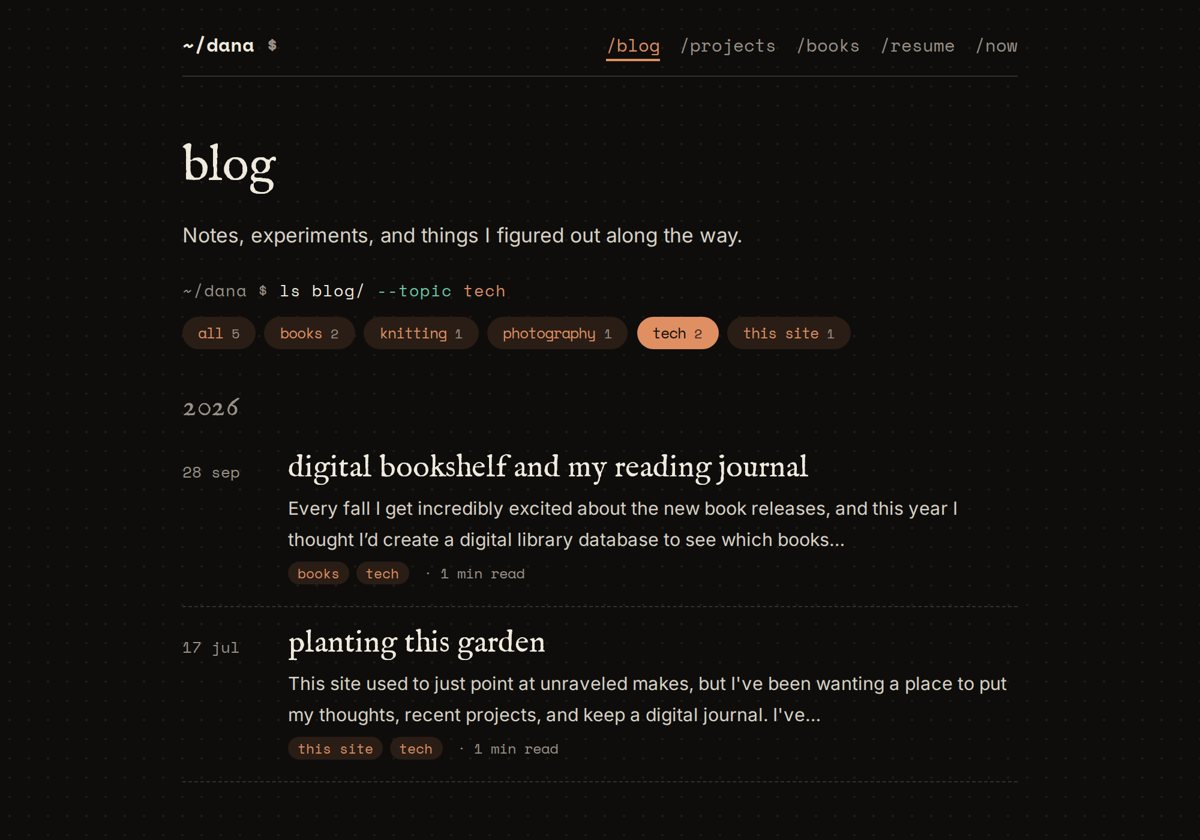
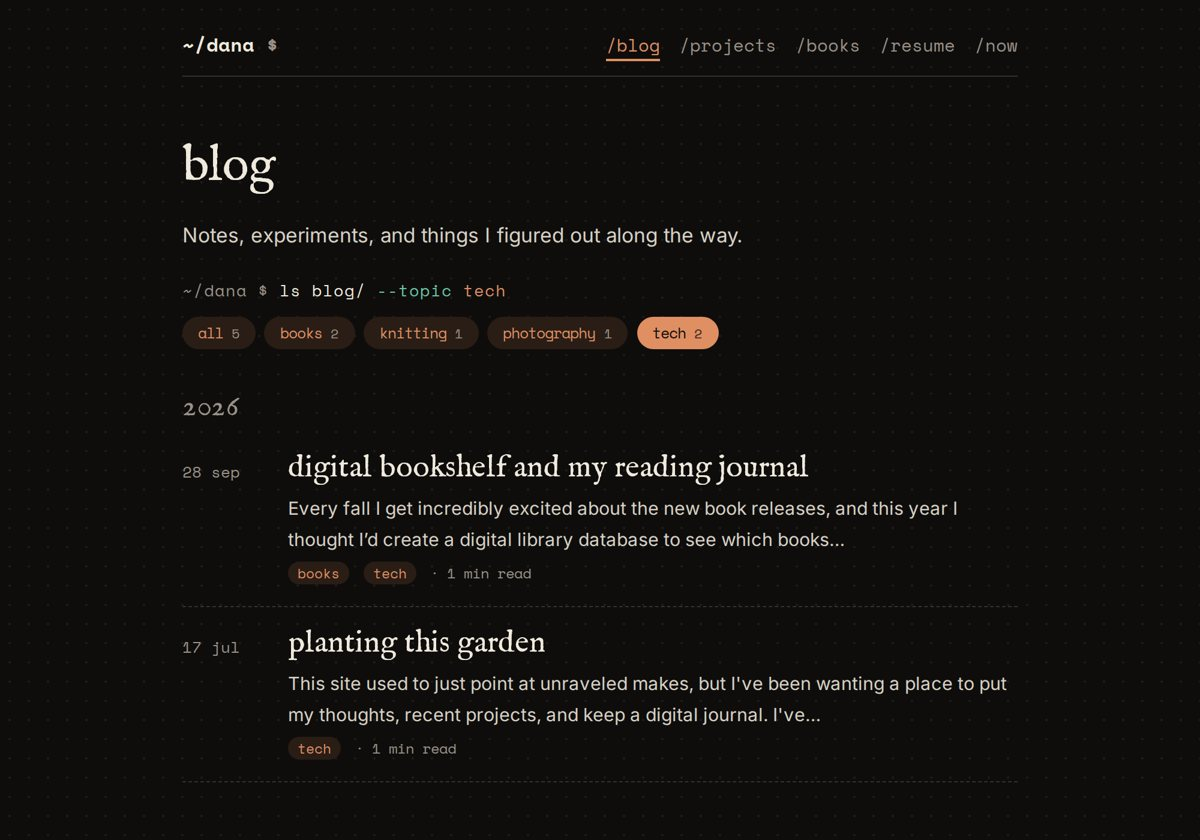
Blog topic filter (PRD part A); PRD v3 with drafts and decisions
- topics: lists in front matter (topic: still works); "this site" retired, planting this garden is tech,
  the audiobooks post is books + tech
- /blog: topic pills with counts under a ls blog/ --topic line, one topic at a time, ?tag= in the URL,
  year headings hide when empty; post-page topic pills link to the filtered list
- PRD: shared /books sign-in, publish goes live directly, drafts kept privately in the API's database

Claude-Session: https://claude.ai/code/session_012Pd5sMaAUWzkLare3ateY7

diff --git a/src/js/blog.js b/src/js/blog.js
@@ -1,0 +1,54 @@
+// /blog topic filter (docs/prd-blog-tags.md). One topic at a time; "all" by default. The choice lives in the
+// URL (?tag=books, spaces as "-") so a filtered list can be shared. Without this script every post is listed.
+(function () {
+  var nav = document.querySelector(".tag-filter");
+  if (!nav) return;
+  nav.hidden = false;
+  var btns = Array.prototype.slice.call(nav.querySelectorAll(".tf-tag"));
+  var arg = nav.querySelector("[data-arg]"), live = nav.querySelector("[data-tf-live]");
+  var items = Array.prototype.slice.call(document.querySelectorAll(".post-cards li"));
+  var known = btns.map(function (b) { return b.getAttribute("data-tag"); });
+  var current = "", typing = null;
+
+  function word(t) { return !t ? "*" : t.indexOf(" ") > -1 ? '"' + t + '"' : t; }
+  function retype(text) { // the --topic word types itself, like the site's other typed text
+    clearTimeout(typing);
+    var reduce = window.matchMedia && matchMedia("(prefers-reduced-motion: reduce)").matches;
+    if (reduce) { arg.textContent = text; return; }
+    var i = 0; arg.textContent = "";
+    (function step() { if (i <= text.length) { arg.textContent = text.slice(0, i++); typing = setTimeout(step, 35 + Math.random() * 30); } })();
+  }
+  function set(t, fromUser) {
+    if (known.indexOf(t) < 0) t = "";
+    if (fromUser && t === current) t = "";   // clicking the selected topic again shows everything
+    current = t;
+    btns.forEach(function (b) { b.setAttribute("aria-pressed", String(b.getAttribute("data-tag") === t)); });
+    var shown = 0;
+    items.forEach(function (li) {
+      var hit = !t || (li.getAttribute("data-topics") || "").split("|").indexOf(t) > -1;
+      if (hit && li.hidden) { li.classList.remove("tf-in"); void li.offsetWidth; li.classList.add("tf-in"); }
+      li.hidden = !hit; if (hit) shown++;
+    });
+    Array.prototype.forEach.call(document.querySelectorAll(".year-head"), function (h) {
+      var ol = h.nextElementSibling, any = ol && Array.prototype.some.call(ol.children, function (li) { return !li.hidden; });
+      h.hidden = !any; if (ol) ol.hidden = !any;
+    });
+    if (fromUser) {
+      retype(word(t));
+      live.textContent = t ? shown + (shown === 1 ? " note" : " notes") + " about " + t : "all " + shown + " notes";
+      if (window.gardenThock) try { window.gardenThock(false, true); } catch (e) {}
+      try { history.replaceState(null, "", t ? "?tag=" + t.replace(/\s+/g, "-") : location.pathname); } catch (e) {}
+    } else arg.textContent = word(t);
+  }
+  btns.forEach(function (b) { b.addEventListener("click", function () { set(b.getAttribute("data-tag"), true); }); });
+  // the topic pills on each post filter in place instead of reloading
+  Array.prototype.forEach.call(document.querySelectorAll(".post-meta a.topic"), function (a) {
+    a.addEventListener("click", function (e) {
+      e.preventDefault();
+      set(a.getAttribute("data-tag"), true);
+      nav.scrollIntoView({ block: "nearest" });
+    });
+  });
+  var q = new URLSearchParams(location.search).get("tag");
+  set(q ? q.replace(/-/g, " ").toLowerCase() : "", false);
+})();

diff --git a/src/css/garden.css b/src/css/garden.css
@@ -462,3 +462,24 @@ html.js body.typed-done .ls-long { opacity: 1; }
   .fav-covers a, .fav-covers span { left: calc(var(--i) * (15rem - var(--w) - 14px) / max(var(--n) - 1, 1)); }
 }
 @media (prefers-reduced-motion: reduce) { .fav-covers a, .fav-covers span { transition: none; } }
+
+/* /blog topic filter (src/js/blog.js, docs/prd-blog-tags.md): a terminal line and topic pills; tokens only */
+.tag-filter { margin: 1.25rem 0 0.5rem; }
+.tf-prompt { font-family: var(--mono); font-size: 0.85rem; color: var(--ink); margin: 0 0 0.6rem; }
+.tf-prompt .d { color: var(--muted); }
+.tf-prompt .flag { color: var(--teal); }
+.tf-prompt .arg { color: var(--terra); }
+.tf-tags { display: flex; flex-wrap: wrap; gap: 0.45rem; }
+.tf-tag { font-family: var(--mono); font-size: 0.78rem; color: var(--terra); background: var(--pill-bg); border: 1px solid transparent; border-radius: 999px; padding: 0.2rem 0.75rem; cursor: pointer; display: inline-flex; gap: 0.45rem; align-items: baseline; }
+.tf-tag .n { color: var(--muted); font-size: 0.7rem; }
+.tf-tag:hover, .tf-tag:focus-visible { border-color: var(--terra); outline: none; }
+.tf-tag[aria-pressed="true"] { background: var(--terra); color: var(--paper); }
+.tf-tag[aria-pressed="true"] .n { color: var(--paper); opacity: 0.8; }
+a.topic { text-decoration: none; border-bottom: none; }
+a.topic:hover, a.topic:focus-visible { outline: 1px solid var(--terra); }
+.post-meta a.topic { margin: 0 0.3rem 0 0; }
+.post-cards li[hidden], .year-head[hidden], .post-cards[hidden] { display: none; }
+@media (prefers-reduced-motion: no-preference) { .post-cards li.tf-in { animation: tf-in 0.15s ease both; } }
+@keyframes tf-in { from { opacity: 0; } }
+.visually-hidden { position: absolute; width: 1px; height: 1px; overflow: hidden; clip: rect(0 0 0 0); white-space: nowrap; }
+.note-meta a.topic + a.topic { margin-left: 0.3rem; }

diff --git a/docs/prd-blog-tags.md b/docs/prd-blog-tags.md
@@ -1,6 +1,6 @@
 # /blog: topic filters and writing posts from the site (PRD)
 
-Status: **proposal, not built.** v2, Oct 1 2026: Dana's answers folded in; scope now includes signing in and writing/editing posts from the site. Mockups in `docs/prd-blog-tags/` come from working prototypes of the real pages.
+Status: **Part A built on `feat/blog-tags` (not live); Part B proposed.** v3, Oct 1 2026: all of Dana's answers folded in, drafts added (B3). Mockups in `docs/prd-blog-tags/` come from working prototypes of the real pages.
 
 ## 1. Why
 
@@ -15,10 +15,10 @@ Under the "Notes, experiments…" line on /blog, a terminal line and a row of to
 
 ```
 ~/dana $ ls blog/ --topic *
-( all 5 ) ( books 2 ) ( knitting 1 ) ( photography 1 ) ( tech 2 ) ( this site 1 )
+( all 5 ) ( books 2 ) ( knitting 1 ) ( photography 1 ) ( tech 2 )
 ```
 
-- **The prompt line** reads like a command and follows the filter: `--topic *` for everything, `--topic books`, `--topic "this site"`.
+- **The prompt line** reads like a command and follows the filter: `--topic *` for everything, `--topic books`.
 - **Pills** use the existing topic pill style, with the post count in a muted color. The selected pill is filled terra. "all" first, then topics **A–Z** (approved).
 - **The list** keeps its year grouping; posts that don't match are hidden, and a year heading disappears when none of its posts match.
 - **Each post card** shows all of its topics as pills; clicking one filters by it.
@@ -28,7 +28,9 @@ Under the "Notes, experiments…" line on /blog, a terminal line and a row of to
 |---|---|---|
 | ![day](prd-blog-tags/day.jpg) | ![evening](prd-blog-tags/evening.jpg) | ![retro](prd-blog-tags/retro.jpg) |
 
-Unfiltered: ![all](prd-blog-tags/day-all.jpg) Phone: ![phone](prd-blog-tags/phone.jpg)
+Phone (tech): ![phone](prd-blog-tags/phone.jpg)
+
+(Screenshots of the built filter.)
 
 ### A2. Behavior
 
@@ -49,7 +51,7 @@ Unfiltered: ![all](prd-blog-tags/day-all.jpg) Phone: ![phone](prd-blog-tags/phon
 | Post | Topics |
 |---|---|
 | digital bookshelf and my reading journal | books, tech |
-| planting this garden | this site, tech |
+| planting this garden | tech (the "this site" topic is retired) |
 | dear california | photography |
 | know me in books | books |
 | on knitting your first (bad) sweater | knitting |
@@ -85,12 +87,33 @@ editor (danaadylova.com) → notes API on Railway (/site/posts, signed-in only) 
 - **New endpoints** on the existing API (`app/site_posts.py`, next to `site_comments.py`): `GET /site/posts` (list), `GET /site/posts/{slug}` (front matter + body + the file's version), `PUT /site/posts/{slug}` (create or update), all behind the same author session as /books.
 - **GitHub access**: a fine-grained token limited to **this repo, Contents: read & write**, stored on Railway as `GITHUB_TOKEN`. Never in the browser.
 - **No overwriting by accident**: each save sends the version it started from; if the file changed in the meantime (say, edited in the repo), the save stops and asks to reload.
-- **Drafts**: `draft: true` in front matter; drafts are left out of /blog, the feed and the home page, but listed for Dana when signed in.
+- **Drafts** never go to GitHub (the repo is public). They are kept privately by the API (B3) and become a file only when published.
 - **What it checks**: title required, date valid, topics are lowercase words, the slug (file name, from the title on first save) can't change after publishing, so links never break.
 - **Commit messages**: `post: <title> (from the site)`, so the history shows what was edited from the editor.
 - **Photo posts and shortcodes** (frame, favorite) are just text in the editor and keep working. Uploading new photos from the editor is **out of scope** (they still go through `scripts/photos.mjs`).
 
-### B3. Signing in: options
+### B3. Drafts
+
+**Where they live.** The site's repo is public, so a draft committed there could be read by anyone. Drafts are kept in the API's own database on Railway (a `blog_drafts` table: title, date, topics, body, which post it belongs to if any, last edited). **Publish** turns a draft into a commit; until then nothing about it is on GitHub or the site.
+
+**Two kinds of draft:**
+1. **A new post that isn't published yet.** "save as draft" in the editor.
+2. **Changes to a published post that aren't published yet.** "save as draft" while editing a live post: the live post stays as it is, the changes wait.
+
+**What Dana sees when signed in** (visitors see none of it; it's filled in by the page script after it asks the API, so it is never in the static HTML):
+- A **drafts** box at the top of /blog, under the topic pills, outlined with a dashed line and marked "only you can see these". Each draft is a normal post card with "draft" where the date goes, its topics, "edited 2 hours ago", and **edit · publish · delete draft**. Newest first. It follows the topic filter like any other card; with no drafts the box isn't shown.
+- A published post with waiting changes gets an **unpublished changes** badge next to its title (and its edit link opens the draft, not the live text).
+- **Preview**: the editor's preview tab shows the draft with the real post styles. Drafts have no public address.
+- **publish** asks once ("publish sweater vision? it'll be live in about a minute"), then commits; the card moves into the list after the next deploy, and the draft is removed.
+- **delete draft** asks once, then removes the draft only (a live post is never touched by it).
+
+| Day | Evening | Retro |
+|---|---|---|
+| ![drafts day](prd-blog-tags/drafts-day.jpg) | ![drafts evening](prd-blog-tags/drafts-evening.jpg) | ![drafts retro](prd-blog-tags/drafts-retro.jpg) |
+
+(The draft "sweater vision" and the badge on "know me in books" are sample data.)
+
+### B4. Signing in
 
 | Option | How it feels | What it needs | Notes |
 |---|---|---|---|
@@ -100,11 +123,9 @@ editor (danaadylova.com) → notes API on Railway (/site/posts, signed-in only) 
 | **4. Sign in with Google** | one click with your Gmail | a Google Cloud OAuth client | Familiar; more setup and Google console upkeep for one user. |
 | **5. No custom editor: a git-based CMS** (Decap CMS at `/admin`) | a ready-made editor that signs in with GitHub | an OAuth helper service; its own look | Less code to build, but it wouldn't look like the site and adds a dependency. |
 
-**Recommendation:** start with **1** (reuse /books sign-in, so it works on day one) and add **2, passkeys**, as the quick everyday sign-in. 3 is a good alternative to 2 if you'd rather click "Sign in with GitHub".
+**Decision: 1, the same email link as /books, and one sign-in for both.** The session cookie belongs to the API (not to a page), so signing in on /books also signs you in on /blog and the reverse; signing out of one signs out of both. The sign-in link gains a `next` so it lands back where you started (/books, /blog or the editor). A "sign in" link sits at the bottom of /blog like on /books. Passkeys or GitHub can be added later on top.
 
-The /books sign-in returns to /books; it gains a `next` so signing in on /blog lands back on /blog (or the editor).
-
-### B4. Security
+### B5. Security
 
 - Only `AUTHOR_EMAIL` can sign in (as today); every `/site/posts` call checks the author session (HttpOnly, SameSite cookie) and the request origin.
 - The GitHub token can only touch this one repo's files, and only lives on Railway.
@@ -116,14 +137,15 @@ The /books sign-in returns to /books; it gains a `next` so signing in on /blog l
 - Deleting posts from the editor (a draft hides a post; deleting stays a repo action).
 - Uploading photos from the editor.
 
-## Open questions
+## Decisions (Oct 1 2026)
 
-1. **"this site" topic**: it's the topic on *planting this garden* (the post about building this website). Keep it as its own topic, or call that post just **tech**?
-2. **Sign-in**: email link only, or email link + passkeys (recommended), or GitHub?
-3. **Publishing straight to `main`** from the editor is the point of the feature, but it is the one place that skips "Dana asks for merges". OK?
+1. **tech** tagging as in A3; **"this site" is retired**, that post is just tech.
+2. Topics **A–Z**; **"all"** by default; the **home page doesn't change**.
+3. **Sign-in: the /books email link, shared** between /books and /blog.
+4. **publish goes live directly.** Usually site changes wait for Dana's "merge"; with the editor, pressing **publish** is that approval, so the post goes live about a minute later with no extra step. "save as draft" never goes live.
 
 ## Build plan (after sign-off)
 
-1. Part A (topic filters): `blog.njk`, a `topics` filter in `eleventy.config.js`, `src/js/blog.js`, styles in `garden.css`, topic pills linked from posts, `topics:` on posts. Ships alone.
-2. Part B: `app/site_posts.py` + tests on the API; `GITHUB_TOKEN` on Railway (Dana creates the token); `/blog/edit/` page and `src/js/editor.js`; signed-in bits on /blog; drafts in the build. Then passkeys if chosen.
+1. Part A (topic filters): **built** on `feat/blog-tags` (`blog.njk`, `topics` / `mainTopic` / `topicCounts` filters, `src/js/blog.js`, styles in `garden.css`, topic pills on post pages link to `/blog/?tag=…`). Ships alone.
+2. Part B: `app/site_posts.py` + `blog_drafts` table + tests on the API; `GITHUB_TOKEN` on Railway (Dana creates the token); `next` on sign-in; `/blog/edit/` and `src/js/editor.js`; signed-in bits and drafts on /blog.
 3. CLAUDE.md in both repos.

diff --git a/CLAUDE.md b/CLAUDE.md
@@ -34,7 +34,7 @@ See its `CLAUDE.md`.
 - **Retro mode** (Sep 30 2026): a visitor switch that makes the **whole site** dark (`html.retro` in garden.css: tokens, and a warm charcoal `#1d1b19` (cards `#262320`) with no dot grid, painted on html *and* body since a host that gives body a background would otherwise cover it; screen only, so the resume prints light). On the home page a warm lamp glow sits behind the typewriter (`.tw::before`): it breathes, and every 5–16 s typewriter.js adds `.flicker` and dims the 3D lamp and desk pool in step. Switches: two `role="switch"` buttons at the top of the home page ("retro mode", "typing sounds"; `retroSwitch: true` in its front matter drops the footer toggles there) and "retro mode: off · typing sounds: off" in every other footer. The logic lives in `garden.js` (remembered in `localStorage` `garden-retro`; `base.njk` applies it in `<head>` before paint; fires `garden:retro`). /books uses its evening palette under retro (`html.page-books.retro`, PRD decision #29). In retro the listing links' `--olive` is rust `#cf6f3c`. **Switching** (both ways) plays the lamp (`.lamp-veil` in garden.css): the light flickers out, the class flips in the dark, the new mode comes up from where the typewriter's lamp sits (an `@property --lamp-r` mask). Reduced motion gets a plain fade. On /books in retro the pointer-following shelf lamp is brighter and flickers (`shelf-flicker`, a different rhythm per year).
   - **Typewriter** (`src/js/typewriter.js`, home page, built only when retro is on): replaces the keyboard, types the prompt onto its paper (the keyboard stands down and the typewriter sends `kb:ready`), then the title and opening sentence(s) of a **random blog post** from `#tw-entries` (JSON in `index.njk`, word-wrapped at 26 columns, only characters it has keys for). Visitors can click keys, pull the return lever, or type; that stops the note. With typing sounds on it uses `window.gardenSound` for a clack, the margin bell and the return ratchet. `garden.js` `gardenRetype()` retypes the prompt when the switch flips. `window.gardenTypewriter.text/step/screenPos` are test hooks. The paper font is Courier Prime (`extraFonts` on the home page).
 - **Home** (`src/index.njk`): intro, then an `ls -l` listing whose right column is live (post count, live projects, `books.total` + currently reading in the same mono type as "reading", `now_updated` from the "as of Month Year" line in `now.md`).
-- **Blog** (`src/blog.njk`): grouped by year; each post shows an excerpt, `topic` and reading time. **Give every new post a `topic:` in its front matter** (used so far: `books`, `knitting`, `this site`).
+- **Blog** (`src/blog.njk`): grouped by year; each post shows an excerpt, its topics and reading time. **Give every new post `topics:` in its front matter**, a list (`topics: [books, tech]`; a single `topic:` still works; the first is the main one, used on the home page). In use: `books`, `knitting`, `photography`, `tech`. A row of topic pills filters the list (`src/js/blog.js`, one topic at a time, `?tag=books`, "all" by default; filters `topics` / `mainTopic` / `topicCounts` / `tagSlug` in `eleventy.config.js`); topic pills on post pages link to `/blog/?tag=…`. Plan for signing in and writing posts from the site: `docs/prd-blog-tags.md`.
 - **Posts** (`src/_includes/post.njk`): meta line `date · N min read · topic`, older/newer links at the end.
 - **Book covers in posts:** `{% favorite "<goodreads ids>" %}markdown{% endfavorite %}` (in `eleventy.config.js`) shows a fan of covers beside the entry; a first line that is only bold becomes the entry title. Posts using it need `templateEngineOverride: njk,md` (see `src/posts/get-to-know-me-in-books.md`). Covers for undated books (`books.undated`) are downloaded too, shown without a link since they aren't on /books.
 - **Photo posts** (layout `src/_includes/photo-essay.njk`, styles `src/css/essay.css`; first one: `src/posts/dear-california.md`): after the "editorial journal" mockup. A big serif title with the **line-drawn camera** beside it (`src/js/camera.js`, three.js r128: page-colored fills, screen-space outlines, hatched shadows; colors read from garden.css tokens and redrawn on `garden:retro` / color-scheme change; shutter sounds only when typing sounds are on; test hooks `window.gardenCamera`), then a 12-column grid via shortcodes `{% frame { photo, at: "4-12 drop", title, place, note, alt, lead } %}`, `{% aside "1-3 end" %}`, `{% pull "9-12" %}` (needs `album:` and `templateEngineOverride: njk,md`). The dot grid shows above the title and after the sign-off; the camera and photos sit on a plain-paper band (`.essay-paper`, full width via a border-image outset, fading in and out). Captions are numbered by CSS; photos "develop" from a pale print as they scroll in (`src/js/essay.js`, not under reduced motion). New album: `node scripts/photos.mjs <album> <folder>` writes `src/img/photos/<album>/<name>-{large,small}.webp` (all metadata stripped, originals stay out of the repo) and size / average color / camera, lens, date into `src/_data/photos.json`; film scans get `film: true`.

diff --git a/src/posts/a-shelf-for-audiobooks.md b/src/posts/a-shelf-for-audiobooks.md
@@ -1,7 +1,7 @@
 ---
 title: digital bookshelf and my reading journal
 date: 2026-09-28
-topic: books
+topics: [books, tech]
 ---
 Every fall I get incredibly excited about the new book releases, and this year I thought I’d create a digital library database to see which books I’ve read. Ever since I discovered audiobooks, my “Read” category in Goodreads shows very large numbers - but it was only feasible because I love to combine my knitting with audiobook listening, plus it was very beneficial for my mental health to go on walks and nurse my baby at nights while listening to some comfort reads.
 

diff --git a/src/posts/planting-this-garden.md b/src/posts/planting-this-garden.md
@@ -1,7 +1,7 @@
 ---
 title: planting this garden
 date: 2026-07-17
-topic: this site
+topics: [tech]
 ---
 This site used to just point at [[unraveled-makes]], but I've been wanting a place to put my thoughts, recent projects, and keep a digital journal. I've always been fascinated by blogs, and even though it's not as popular anymore as it was 10/20 years ago, I'd like to give it a go.
 
